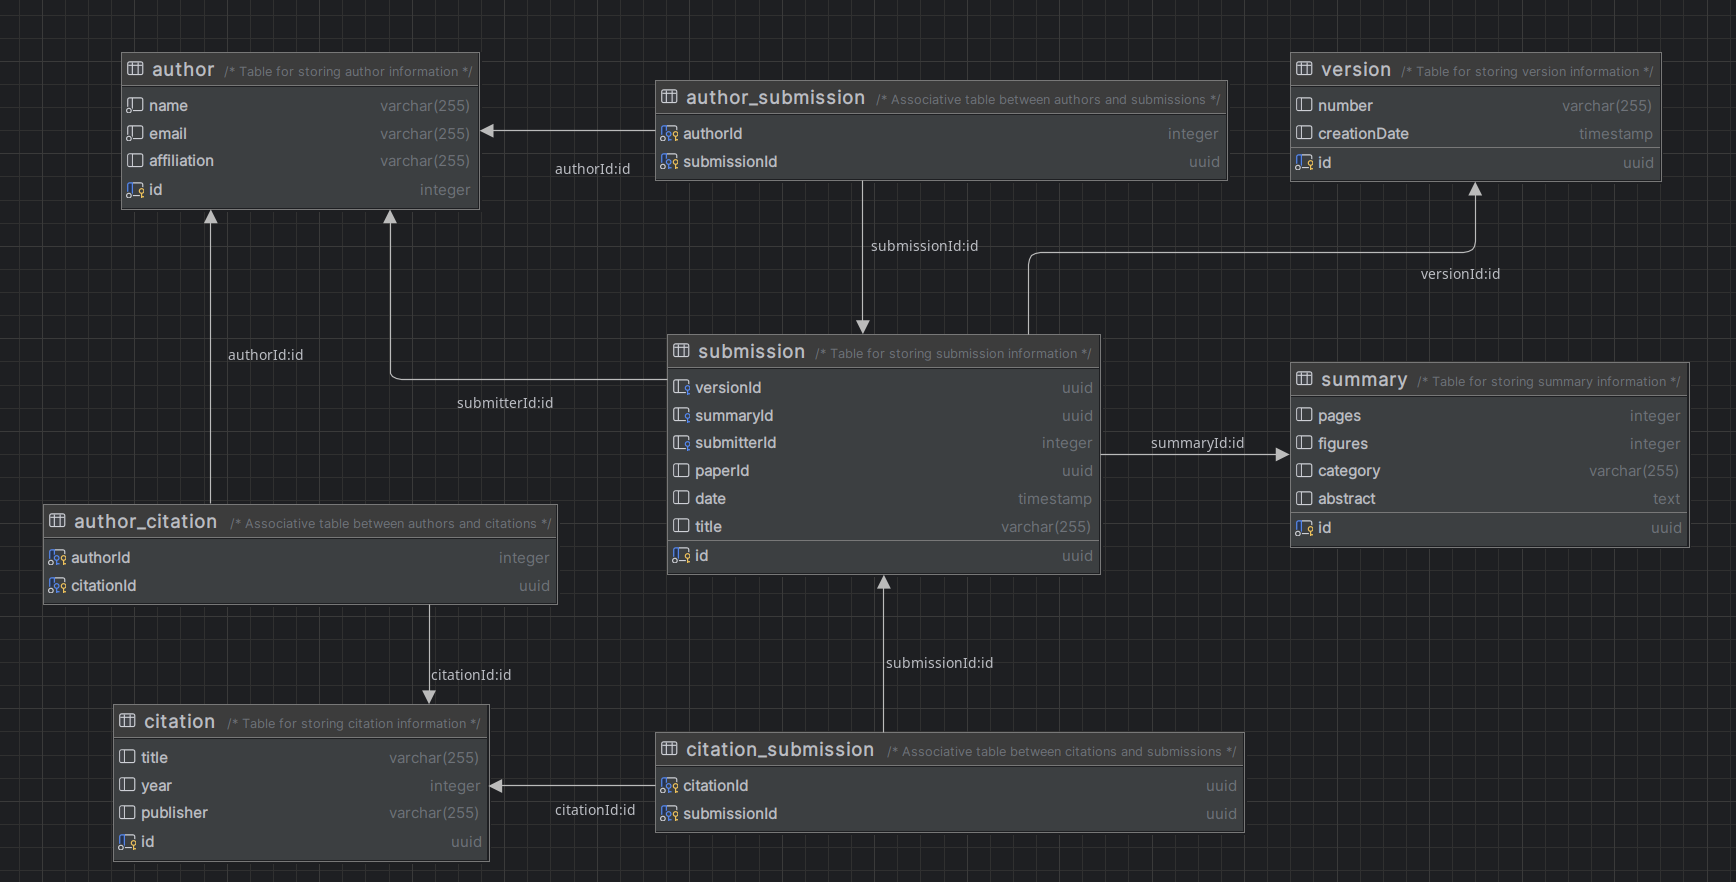
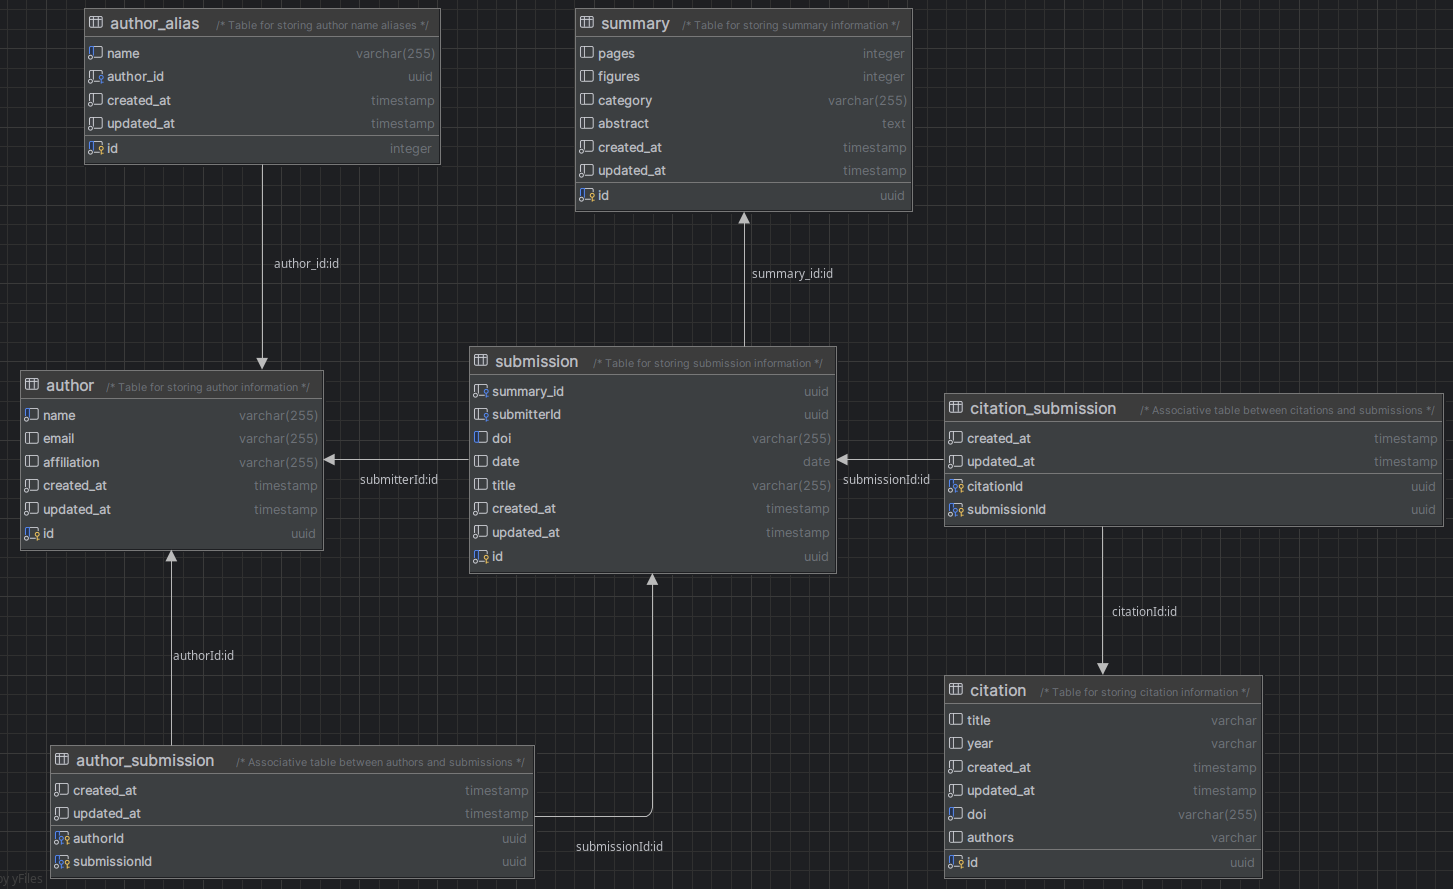
update schema

diff --git a/readme.md b/readme.md
@@ -81,7 +81,12 @@ docker compose down --volumes --remove-orphans
 
 ## DW schema
 
+Current schema
+
 ![schema](schema.png).
+
+
+## Initial thoughts
 
 ### Fact
 
@@ -149,13 +154,3 @@ docker compose down --volumes --remove-orphans
 #### Submitted Author -> Paper
 * date
 
-## Pipeline
-
-1. File watch to trigger pipeline
-2. Python task to read line by line from file and deserialize to object, divide to batch of objects
-3. Python task to filter out objects that are not valid
-4. Python task to transform object to star schema model
-5. Python task to transform object to graph db model
-6. Python task to enrich from external source
-7. Postgres insert task
-8. Neo4j insert task
